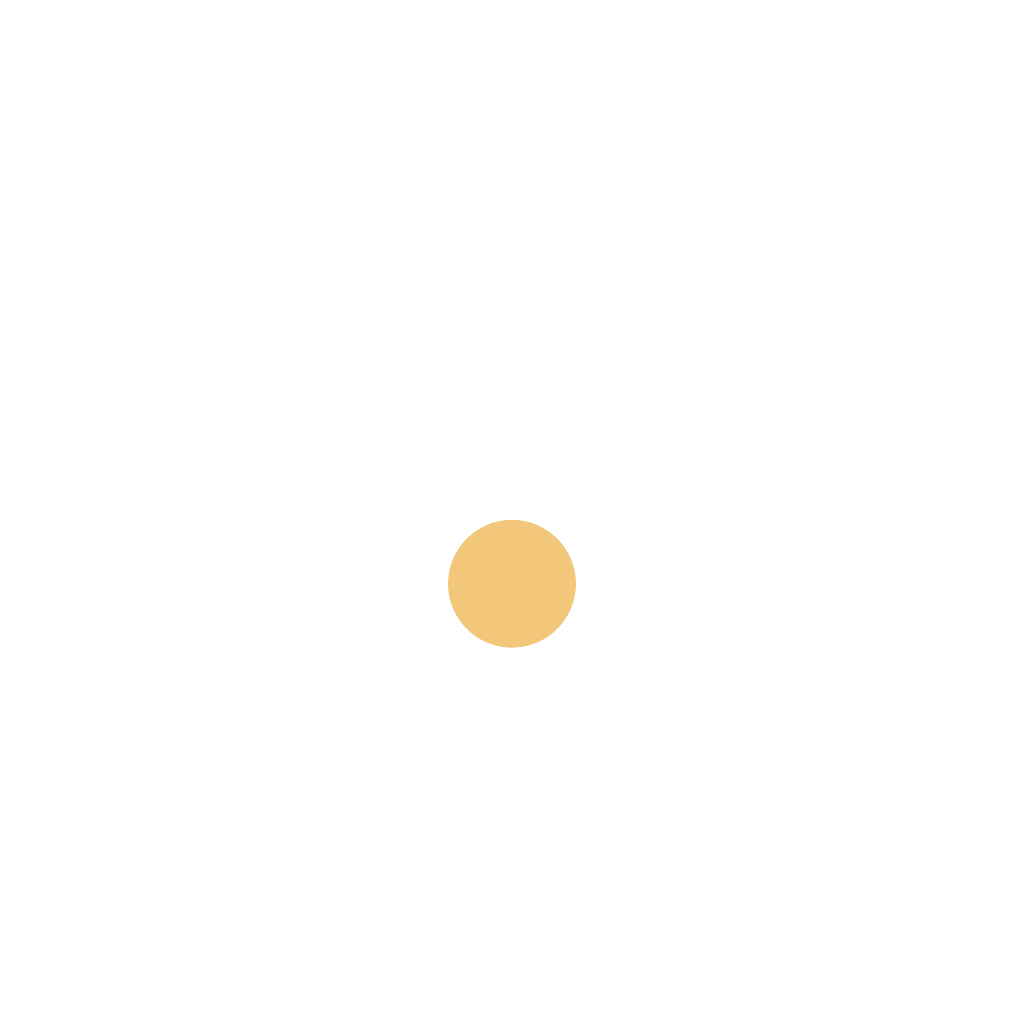
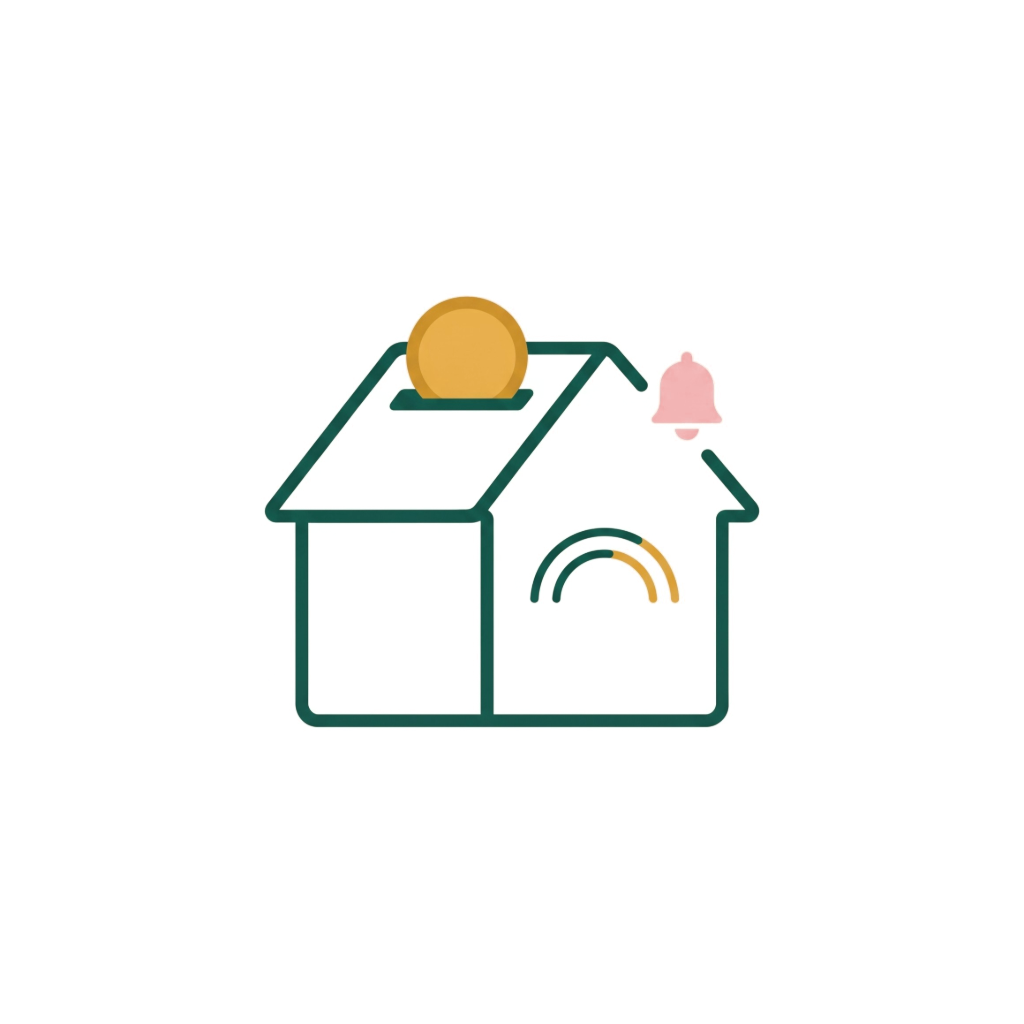
Cambia el icono de la app por la nueva imagen
Los iconos, la pantalla de carga y el favicon salen ahora de assets/source/icon.jpg.

Claude-Session: https://claude.ai/code/session_015DdsvjouWf3iuddYRzUUhn

Changed region(s): [[0.25, 0.2812, 0.75, 0.7188]]

diff --git a/apps/mobile/src/design/Brand.tsx b/apps/mobile/src/design/Brand.tsx
@@ -1,7 +1,7 @@
 import { Image, StyleSheet, View } from 'react-native';
 import icon from '../../assets/icon.png';
 import { AppText } from './Text';
-import { radius, spacing } from './tokens';
+import { color, radius, spacing } from './tokens';
 
 /** Marca de Smartnomic para las pantallas sin sesión: símbolo, nombre y lema. */
 export function Brand({ tagline }: { tagline: string }) {
@@ -20,6 +20,13 @@ export function Brand({ tagline }: { tagline: string }) {
 
 const styles = StyleSheet.create({
   row: { flexDirection: 'row', alignItems: 'center', gap: spacing.ms, marginBottom: spacing.md },
-  mark: { width: 48, height: 48, borderRadius: radius.lg },
+  // El icono es crema: el borde lo separa del fondo arena.
+  mark: {
+    width: 48,
+    height: 48,
+    borderRadius: radius.lg,
+    borderWidth: 1,
+    borderColor: color.border.default,
+  },
   text: { flex: 1 },
 });
